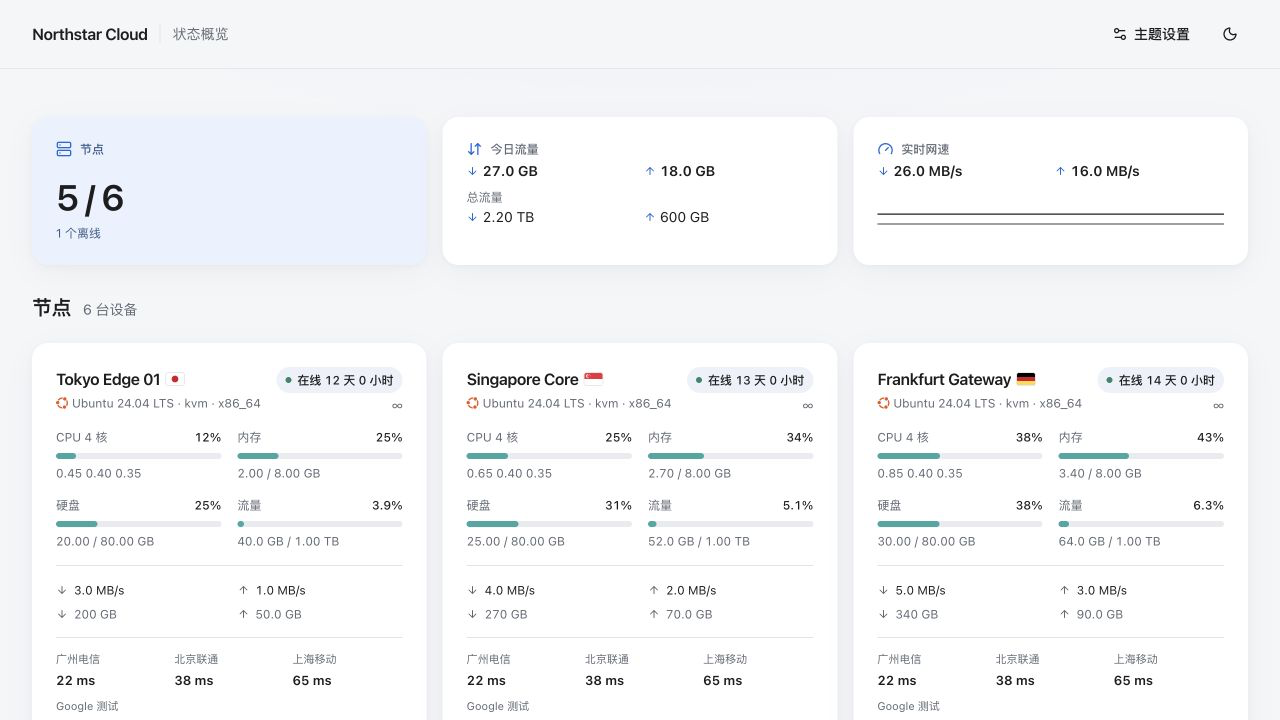
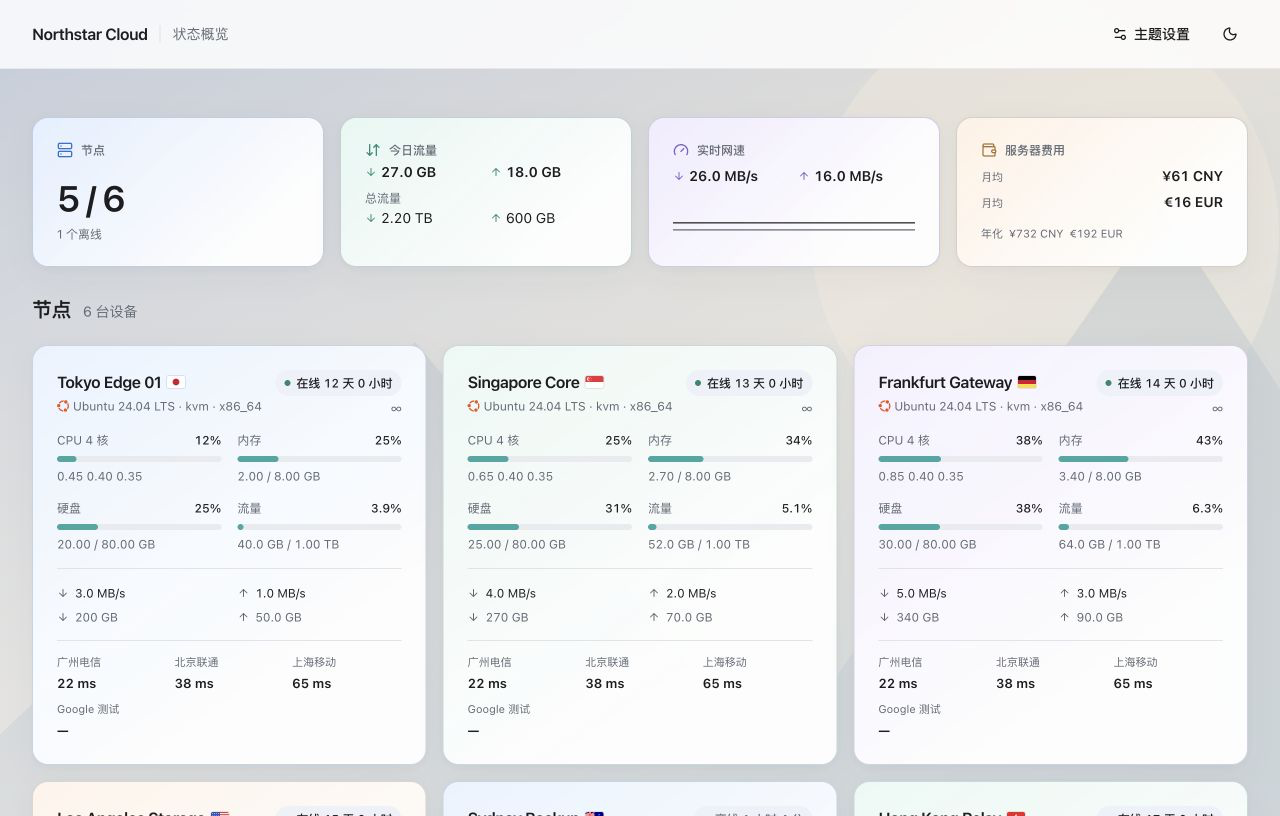
Add adaptive image background and server cost overview

diff --git a/src/index.css b/src/index.css
@@ -137,6 +137,12 @@
 .dark .app-shell {
   background: radial-gradient(ellipse 1100px 480px at 50% -230px, #202d42 0, transparent 75%), var(--background);
 }
+.app-shell.has-background-image { position: relative; isolation: isolate; background: transparent; }
+.background-scene { position: fixed; z-index: -1; inset: 0; overflow: hidden; pointer-events: none; }
+.background-scene img { display: block; width: 100%; height: 100%; object-fit: cover; object-position: center; }
+.background-scrim { position: absolute; inset: 0; background: linear-gradient(180deg, #f5f6f899, #f5f6f8bd); }
+.dark .background-scrim { background: linear-gradient(180deg, #111318aa, #111318d1); }
+.has-background-image .app-header { background: color-mix(in srgb, var(--card) 82%, transparent); }
 .app-header {
   background: color-mix(in srgb, var(--background) 80%, transparent);
   border-bottom: 1px solid color-mix(in srgb, var(--border) 75%, transparent);
@@ -153,18 +159,21 @@
 .dark .surface-card, .dark .detail-facts, .dark .chart-panel {
   box-shadow: 0 10px 30px #00000026;
 }
-.summary-tile { min-height: 148px; }
-.summary-grid .summary-tile:last-child { grid-column: span 2; }
-@media (min-width: 1024px) {
-  .summary-grid .summary-tile:last-child { grid-column: auto; }
+.summary-tile {
+  min-height: 148px;
+  border: 1px solid color-mix(in srgb, var(--tile-accent) 18%, var(--border));
+  background: linear-gradient(138deg, color-mix(in srgb, var(--tile-tint) 55%, var(--card)), color-mix(in srgb, var(--card) 94%, transparent) 78%);
 }
-.summary-grid .summary-tile:first-child {
-  background: #e9f2ff;
-}
-.dark .summary-grid .summary-tile:first-child { background: #1f314b; }
-.summary-grid .summary-tile:first-child [class*=text-muted-foreground] { color: #375a88; }
-.dark .summary-grid .summary-tile:first-child [class*=text-muted-foreground] { color: #bbd4f4; }
-.summary-tile svg { color: var(--primary); }
+.summary-grid .summary-tile:nth-child(1) { --tile-tint: #cde2ff; --tile-accent: #2573cc; }
+.summary-grid .summary-tile:nth-child(2) { --tile-tint: #d0f1e8; --tile-accent: #208b78; }
+.summary-grid .summary-tile:nth-child(3) { --tile-tint: #e5dcff; --tile-accent: #7963c5; }
+.summary-grid .summary-tile:nth-child(4) { --tile-tint: #ffe6ce; --tile-accent: #ac7137; }
+.dark .summary-grid .summary-tile:nth-child(1) { --tile-tint: #29466b; --tile-accent: #83b9ff; }
+.dark .summary-grid .summary-tile:nth-child(2) { --tile-tint: #24463f; --tile-accent: #71d2ba; }
+.dark .summary-grid .summary-tile:nth-child(3) { --tile-tint: #3d3458; --tile-accent: #b9a6ff; }
+.dark .summary-grid .summary-tile:nth-child(4) { --tile-tint: #4a392c; --tile-accent: #edbb87; }
+.summary-tile svg { color: var(--tile-accent); }
+.summary-tile .cost-rows { overflow-wrap: anywhere; }
 .summary-tile .tnum { font-variant-numeric: tabular-nums; }
 .group-tabs button { border-radius: 999px; }
 .group-tabs button[aria-pressed=true] { background: var(--primary); color: var(--primary-foreground); }
@@ -174,6 +183,18 @@
   min-height: 286px;
   transition: transform 180ms cubic-bezier(.2,.8,.2,1), box-shadow 180ms ease;
 }
+.node-grid > :is(.node-card, .compact-node-card, .mini-node-card) {
+  border: 1px solid color-mix(in srgb, var(--node-accent) 16%, var(--border));
+  background: linear-gradient(145deg, color-mix(in srgb, var(--node-tint) 50%, var(--card)), color-mix(in srgb, var(--card) 95%, transparent) 72%);
+}
+.node-grid > :nth-child(4n+1) { --node-tint: #d5e8ff; --node-accent: #4386d4; }
+.node-grid > :nth-child(4n+2) { --node-tint: #d8f2e9; --node-accent: #439f83; }
+.node-grid > :nth-child(4n+3) { --node-tint: #e9e2ff; --node-accent: #8c75ca; }
+.node-grid > :nth-child(4n+4) { --node-tint: #ffead7; --node-accent: #c18b54; }
+.dark .node-grid > :nth-child(4n+1) { --node-tint: #2c4260; --node-accent: #74aff2; }
+.dark .node-grid > :nth-child(4n+2) { --node-tint: #254439; --node-accent: #73cfac; }
+.dark .node-grid > :nth-child(4n+3) { --node-tint: #403751; --node-accent: #b7a2ee; }
+.dark .node-grid > :nth-child(4n+4) { --node-tint: #48392e; --node-accent: #e5b489; }
 @media (hover: hover) and (pointer: fine) {
   .node-card:hover { transform: translateY(-3px); box-shadow: 0 16px 34px #1c293a18; }
 }
@@ -235,6 +256,10 @@
   width: 100%; padding: 15px 20px; border-top: 1px solid var(--border);
   text-align: left; font-size: 13px; transition: background-color 150ms ease;
 }
+.list-node-row:nth-child(4n+2) { background: color-mix(in srgb, #cde3fc 12%, var(--card)); }
+.list-node-row:nth-child(4n+3) { background: color-mix(in srgb, #cfeee2 12%, var(--card)); }
+.list-node-row:nth-child(4n+4) { background: color-mix(in srgb, #e5dcfc 12%, var(--card)); }
+.list-node-row:nth-child(4n+5) { background: color-mix(in srgb, #f8e2ce 12%, var(--card)); }
 .list-node-row:hover { background: var(--accent); }
 .list-node-row:active { background: var(--secondary); }
 .list-node-identity strong { font-size: 13px; font-weight: 600; }
@@ -257,6 +282,8 @@
 .settings-toggle { padding: 18px 0; border-top: 1px solid var(--border); border-bottom: 1px solid var(--border); }
 .settings-toggle small { font-size: 11px; }
 .settings-toggle input { width: 18px; height: 18px; accent-color: var(--primary); }
+.settings-text-input { min-height: 42px; padding: 9px 12px; border: 1px solid var(--input); border-radius: 10px; background: var(--background); color: var(--foreground); font-size: 14px; }
+.settings-text-input::placeholder { color: var(--muted-foreground); }
 .settings-secondary, .settings-primary { padding: 9px 15px; border-radius: 9px; font-size: 13px; font-weight: 600; }
 .settings-secondary { background: var(--muted); }
 .settings-primary { background: var(--primary); color: var(--primary-foreground); }
@@ -275,10 +302,9 @@
 .detail-tab:active { transform: scale(.97); }
 
 @media (max-width: 639px) {
-  .summary-tile { min-height: 146px; }
+  .summary-tile { min-height: 146px; padding: 17px; }
   .summary-tile .tnum.text-3xl { font-size: 1.6rem; }
   .chart-panel { padding: 18px 12px; }
-  .summary-grid .summary-tile:last-child .tnum.grid { grid-template-columns: repeat(2, minmax(0, 1fr)); }
   .section-heading .group-tabs { width: 100%; }
   .mini-node-card { padding: 14px; }
   .mini-node-card h3 { font-size: 12px; }

diff --git a/src/components/Summary.tsx b/src/components/Summary.tsx
@@ -1,7 +1,8 @@
-import { ArrowDown, ArrowDownUp, ArrowUp, Gauge, Server } from "lucide-react"
+import { ArrowDown, ArrowDownUp, ArrowUp, Gauge, Server, Wallet } from "lucide-react"
 
 import { Card } from "@/components/ui/card"
 import { speedHistory, type Node } from "@/lib/api"
+import { costByCurrency, costMoney } from "@/lib/cost"
 import { bytes, rate } from "@/lib/format"
 import { cn } from "@/lib/utils"
 
@@ -48,7 +49,7 @@ function Spark({ series }: { series: { values: number[]; className: string }[] }
   const top = Math.max(...series.flatMap((s) => s.values), 1)
   const width = Math.max(...series.map((s) => s.values.length), 2) - 1
   return (
-    <svg viewBox="0 0 100 24" preserveAspectRatio="none" className="h-7 w-full" aria-hidden>
+    <svg viewBox="0 0 100 24" preserveAspectRatio="none" className="h-5 w-full" aria-hidden>
       {series.map((s, i) => (
         <polyline
           key={i}
@@ -73,9 +74,10 @@ export function Summary({ nodes, group }: { nodes: Node[]; group: string | null 
   // is that line's last point.
   const history = speedHistory.get(group) ?? []
   const now = history.at(-1) ?? { rx: 0, tx: 0 }
+  const costs = costByCurrency(nodes)
 
   return (
-    <div className="summary-grid grid grid-cols-2 gap-4 lg:grid-cols-3">
+    <div className="summary-grid grid grid-cols-2 gap-3 sm:gap-4 lg:grid-cols-4">
       <Tile icon={Server} label="节点">
         <div className="tnum mt-5 text-3xl font-semibold tracking-tight sm:text-4xl">
           {online.length} / {nodes.length}
@@ -96,7 +98,7 @@ export function Summary({ nodes, group }: { nodes: Node[]; group: string | null 
       </Tile>
 
       <Tile icon={Gauge} label="实时网速">
-        <Flow down={rate(now.rx)} up={rate(now.tx)} className="mt-1 text-sm font-semibold" />
+        <Flow down={rate(now.rx)} up={rate(now.tx)} className="mt-2 text-sm font-semibold" />
         <div className="mt-auto pt-1">
           <Spark
             series={[
@@ -105,6 +107,31 @@ export function Summary({ nodes, group }: { nodes: Node[]; group: string | null 
             ]}
           />
         </div>
+      </Tile>
+
+      <Tile icon={Wallet} label="服务器费用">
+        {costs.length === 0 ? (
+          <div className="mt-auto text-sm text-muted-foreground">暂无定价</div>
+        ) : (
+          <>
+            <div className="cost-rows mt-2 space-y-1.5">
+              {costs.map(({ currency, monthly }) => (
+                <div key={currency} className="flex min-w-0 items-baseline justify-between gap-1.5">
+                  <span className="shrink-0 text-[11px] text-muted-foreground">月均</span>
+                  <strong className="tnum min-w-0 text-right text-sm font-semibold" title={`${currency} 月均 ${costMoney(monthly, currency, true)}`}>
+                    {costMoney(monthly, currency, costs.length > 1)}
+                  </strong>
+                </div>
+              ))}
+            </div>
+            <div className="cost-annual mt-auto flex flex-wrap gap-x-1.5 pt-2 text-[11px] text-muted-foreground">
+              <span>年化</span>
+              {costs.map(({ currency, annual }) => (
+                <span className="tnum" key={currency}>{costMoney(annual, currency, costs.length > 1)}</span>
+              ))}
+            </div>
+          </>
+        )}
       </Tile>
     </div>
   )

diff --git a/src/components/ThemeSettings.tsx b/src/components/ThemeSettings.tsx
@@ -1,7 +1,7 @@
 import { useEffect, useRef, useState } from "react"
 import { Check, X } from "lucide-react"
 
-import { saveConfig, type ThemeConfig, type ViewMode } from "@/lib/config"
+import { isBackgroundImageUrl, saveConfig, type ThemeConfig, type ViewMode } from "@/lib/config"
 
 const OPTIONS: { mode: ViewMode; label: string; help: string }[] = [
   { mode: "large", label: "大卡片", help: "显示完整资源与流量" },
@@ -29,8 +29,10 @@ export function ThemeSettings({ config, onClose, onSaved }: {
     setSaving(true)
     setError("")
     try {
-      await saveConfig(draft)
-      onSaved(draft)
+      const next = { ...draft, background_image_url: draft.background_image_url.trim() }
+      if (!isBackgroundImageUrl(next.background_image_url)) throw new Error("请输入有效的 http(s) 图片地址或站内路径")
+      await saveConfig(next)
+      onSaved(next)
     } catch (cause) {
       setError(cause instanceof Error ? cause.message : "保存主题设置失败")
     } finally {
@@ -68,9 +70,25 @@ export function ThemeSettings({ config, onClose, onSaved }: {
         </fieldset>
 
         <label className="settings-toggle mt-6 flex items-center justify-between gap-4">
-          <span><strong className="block text-sm">显示顶部概览</strong><small className="mt-1 block text-muted-foreground">节点数量、流量与实时网速</small></span>
+          <span><strong className="block text-sm">显示顶部概览</strong><small className="mt-1 block text-muted-foreground">节点、流量、网速与服务器费用</small></span>
           <input type="checkbox" checked={draft.show_summary} onChange={(event) => setDraft((current) => ({ ...current, show_summary: event.target.checked }))} />
         </label>
+
+        <fieldset className="mt-6 border-t border-border pt-5">
+          <legend className="text-sm font-semibold">页面背景</legend>
+          <label htmlFor="background-image-url" className="mt-3 block text-xs text-muted-foreground">背景图片 API 地址</label>
+          <input
+            id="background-image-url"
+            type="text"
+            inputMode="url"
+            autoComplete="off"
+            className="settings-text-input mt-2 w-full"
+            placeholder="https://example.com/image"
+            value={draft.background_image_url}
+            onChange={(event) => setDraft((current) => ({ ...current, background_image_url: event.target.value }))}
+          />
+          <p className="mt-2 text-xs leading-relaxed text-muted-foreground">填写直接返回图片的 API 地址，一张图会自动适配手机与电脑。留空则使用默认背景。图片地址会对访客公开。</p>
+        </fieldset>
 
         <fieldset className="mt-6 border-t border-border pt-5">
           <legend className="text-sm font-semibold">延迟监控</legend>

diff --git a/src/lib/cost.ts b/src/lib/cost.ts
@@ -1,0 +1,52 @@
+import type { Node } from "./api"
+
+type PricedNode = Pick<Node, "price" | "currency" | "billing_cycle">
+
+export type CurrencyCost = { currency: string; monthly: number; annual: number; count: number }
+
+/** A recurring plan's length in months. An outright purchase has no monthly cost. */
+export function billingMonths(cycle: string): number | null {
+  const value = String(cycle ?? "").trim().toLowerCase()
+  if (/^(once|one-time|lifetime|永久|一次性|买断|-1)$/.test(value)) return null
+  const named: Record<string, number> = {
+    monthly: 1, month: 1, mo: 1, "月": 1, "月付": 1, "每月": 1,
+    quarterly: 3, quarter: 3, "季": 3, "季度": 3, "季付": 3,
+    semiannual: 6, "semi-annually": 6, halfyear: 6, "half-year": 6, "半年": 6, "半年付": 6,
+    yearly: 12, annually: 12, annual: 12, year: 12, yr: 12, "年": 12, "年付": 12, "每年": 12,
+    biennial: 24, "两年": 24, "两年付": 24, "2年": 24, "2年付": 24,
+    triennial: 36, "三年": 36, "三年付": 36, "3年": 36, "3年付": 36,
+  }
+  if (value in named) return named[value]
+  const days = Number(value)
+  if (value && Number.isFinite(days) && days > 0) {
+    if (days === 360 || days === 365) return 12
+    if (days % 365 === 0) return (days / 365) * 12
+    return days / 30
+  }
+  // The hub's default billing cycle is annual; old records may omit it.
+  return 12
+}
+
+/** Currencies remain separate: adding USD, CNY and EUR without rates is misleading. */
+export function costByCurrency(nodes: PricedNode[]): CurrencyCost[] {
+  const totals = new Map<string, CurrencyCost>()
+  for (const node of nodes) {
+    const months = billingMonths(node.billing_cycle)
+    if (!months || !Number.isFinite(node.price) || node.price <= 0) continue
+    const currency = node.currency?.trim().toUpperCase() || "CNY"
+    const entry = totals.get(currency) ?? { currency, monthly: 0, annual: 0, count: 0 }
+    entry.monthly += node.price / months
+    entry.annual = entry.monthly * 12
+    entry.count++
+    totals.set(currency, entry)
+  }
+  return [...totals.values()].sort((a, b) => a.currency.localeCompare(b.currency))
+}
+
+const SYMBOLS: Record<string, string> = { CNY: "¥", USD: "$", EUR: "€", GBP: "£", JPY: "¥" }
+const NUMBER = new Intl.NumberFormat("zh-CN", { maximumFractionDigits: 2, minimumFractionDigits: 0 })
+
+export function costMoney(amount: number, currency: string, showCode = false): string {
+  const symbol = SYMBOLS[currency]
+  return `${symbol ?? ""}${NUMBER.format(amount)}${showCode || !symbol ? ` ${currency}` : ""}`
+}

diff --git a/src/lib/cost.test.ts b/src/lib/cost.test.ts
@@ -1,0 +1,31 @@
+import { billingMonths, costByCurrency, costMoney } from "./cost.ts"
+
+let failed = 0
+function eq(got: unknown, want: unknown, label: string) {
+  if (JSON.stringify(got) !== JSON.stringify(want)) {
+    console.error(`${label}: got ${JSON.stringify(got)}, wanted ${JSON.stringify(want)}`)
+    failed++
+  }
+}
+
+eq(billingMonths("monthly"), 1, "monthly")
+eq(billingMonths("quarterly"), 3, "quarterly")
+eq(billingMonths("semiannual"), 6, "semiannual")
+eq(billingMonths("yearly"), 12, "yearly")
+eq(billingMonths("biennial"), 24, "biennial")
+eq(billingMonths("triennial"), 36, "triennial")
+eq(billingMonths("1095"), 36, "three years in days")
+eq(billingMonths("once"), null, "one-time purchase")
+eq(costByCurrency([
+  { price: 12, currency: "USD", billing_cycle: "monthly" },
+  { price: 36, currency: "USD", billing_cycle: "quarterly" },
+  { price: 120, currency: "CNY", billing_cycle: "yearly" },
+  { price: 90, currency: "CNY", billing_cycle: "once" },
+  { price: 0, currency: "USD", billing_cycle: "monthly" },
+]), [
+  { currency: "CNY", monthly: 10, annual: 120, count: 1 },
+  { currency: "USD", monthly: 24, annual: 288, count: 2 },
+], "monthly amortization and currency separation")
+eq(costMoney(24.5, "USD"), "$24.5", "formatted cost")
+
+if (failed) process.exitCode = 1

diff --git a/src/App.tsx b/src/App.tsx
@@ -152,7 +152,8 @@ export default function App() {
   if (!me.public_page && !me.authed) return null
 
   return (
-    <div className="app-shell min-h-svh">
+    <div className={`app-shell min-h-svh ${siteConfig.background_image_url ? "has-background-image" : ""}`}>
+      {siteConfig.background_image_url && <BackgroundImage key={siteConfig.background_image_url} url={siteConfig.background_image_url} />}
       <header className="app-header sticky top-0 z-10">
         <div className="mx-auto flex max-w-[1360px] items-center gap-3 px-5 py-4 sm:px-8">
           {/* The site name is the way back to the list, so a node page needs
@@ -207,6 +208,15 @@ export default function App() {
       {settingsOpen && me.authed && <ThemeSettings config={siteConfig} onClose={() => setSettingsOpen(false)} onSaved={applySettings} />}
     </div>
   )
+}
+
+function BackgroundImage({ url }: { url: string }) {
+  const [failed, setFailed] = useState(false)
+  if (failed) return null
+  return <div className="background-scene" aria-hidden="true">
+    <img src={url} alt="" decoding="async" onError={() => setFailed(true)} />
+    <span className="background-scrim" />
+  </div>
 }
 
 // Group tabs sit beside the node heading, while the summary follows the selection.

diff --git a/src/lib/config.ts b/src/lib/config.ts
@@ -6,6 +6,7 @@ export type ThemeConfig = {
   card_mode: ViewMode
   show_summary: boolean
   show_carrier_latency: boolean
+  background_image_url: string
 }
 
 type Field = { key: string; type: string; default: unknown; options?: { value: string }[] }
@@ -19,7 +20,20 @@ function isRecord(value: unknown): value is Record<string, unknown> {
 function fits(field: Field, value: unknown): boolean {
   if (field.type === "boolean") return typeof value === "boolean"
   if (field.type === "select") return field.options?.some((option) => option.value === value) ?? false
+  if (field.key === "background_image_url") return typeof value === "string" && isBackgroundImageUrl(value)
   return typeof value === "string"
+}
+
+export function isBackgroundImageUrl(value: string): boolean {
+  const url = value.trim()
+  if (!url) return true
+  if (!/^https?:\/\//i.test(url) && !/^\/(?!\/)/.test(url)) return false
+  try {
+    const parsed = new URL(url, "https://example.invalid")
+    return (parsed.protocol === "https:" || parsed.protocol === "http:") && !parsed.username && !parsed.password
+  } catch {
+    return false
+  }
 }
 
 function withDefaults(saved: Record<string, unknown>): ThemeConfig {

diff --git a/README.md b/README.md
@@ -9,7 +9,8 @@
 - 大卡片、小卡片、迷你卡片、列表四种视图
 - 节点分组、详情、历史图表和实时数据
 - 延迟监控：在节点卡片和列表展示后台分配的探测任务及最近结果
-- 管理员可设置节点展示方式、顶部概览和延迟开关；有分组时，访客可按分组浏览节点
+- 管理员可设置节点展示方式、顶部概览、延迟开关和背景图片 API；有分组时，访客可按分组浏览节点
+- 顶部概览展示按付款周期折算的服务器月均与年化费用；不同币种分别统计
 - 不覆盖站点原有 favicon
 
 ## 安装
@@ -18,6 +19,8 @@
 2. 在 monitor 后台的「主题」页面上传并启用 **Clarity**。
 
 管理员登录后，可在公开状态页右上角打开「主题设置」。此功能需要支持主题配置接口的 monitor 版本；旧版仍可使用默认界面。
+
+背景图片 API 地址应直接返回图片。主题会使用同一地址，并让图片自动填满手机与电脑屏幕；留空保留默认背景。请使用 HTTPS 地址（或本站路径），且不要在公开地址中包含私密密钥。
 
 在 monitor 后台创建并分配 TCP 延迟探测任务后，主题会自动显示当前分配给每个节点的任务名称与结果。主题设置只需控制是否显示。迷你卡片和列表最多展示三项，其余显示数量。这里测量的是**节点到探测目标**的延迟；没有分配任务的节点不显示延迟区。
 
